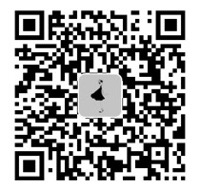
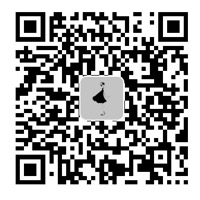
Site updated: 2021-01-11 20:58:48

diff --git a/2021/01/02/hello-world/index.html b/2021/01/02/hello-world/index.html
@@ -687,7 +687,7 @@
                         <img src="/medias/reward/alipay.jpg" class="reward-img" alt="支付宝打赏二维码">
                     </div>
                     <div id="wechat">
-                        <img src="/medias/reward/wechat.png" class="reward-img" alt="微信打赏二维码">
+                        <img src="/medias/reward/wechat.jpg" class="reward-img" alt="微信打赏二维码">
                     </div>
                 </div>
             </div>

diff --git a/2021/01/05/first-blog-test/index.html b/2021/01/05/first-blog-test/index.html
@@ -692,7 +692,7 @@
                         <img src="/medias/reward/alipay.jpg" class="reward-img" alt="支付宝打赏二维码">
                     </div>
                     <div id="wechat">
-                        <img src="/medias/reward/wechat.png" class="reward-img" alt="微信打赏二维码">
+                        <img src="/medias/reward/wechat.jpg" class="reward-img" alt="微信打赏二维码">
                     </div>
                 </div>
             </div>
